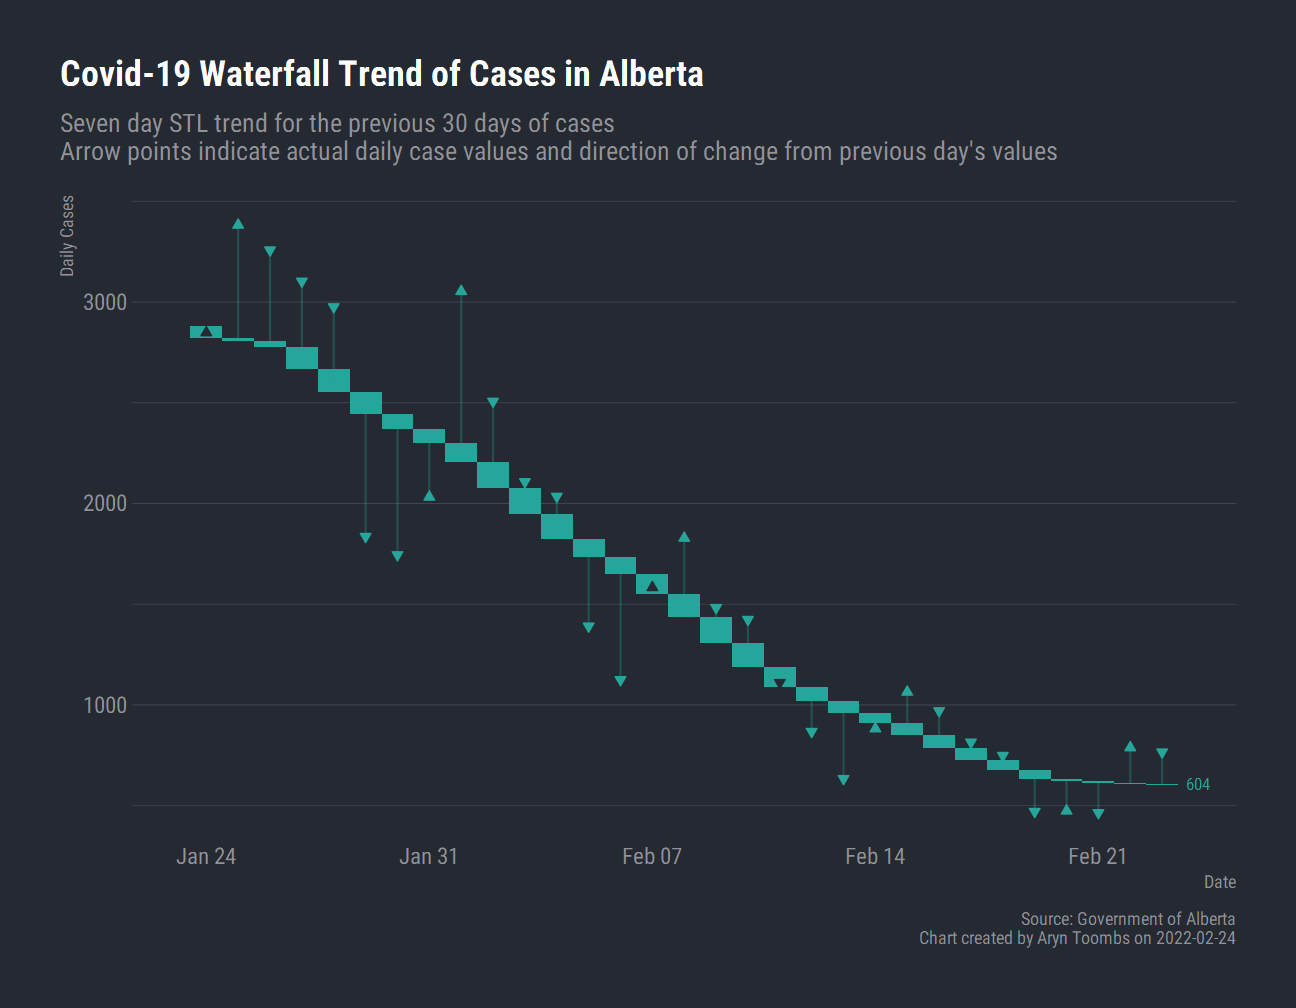
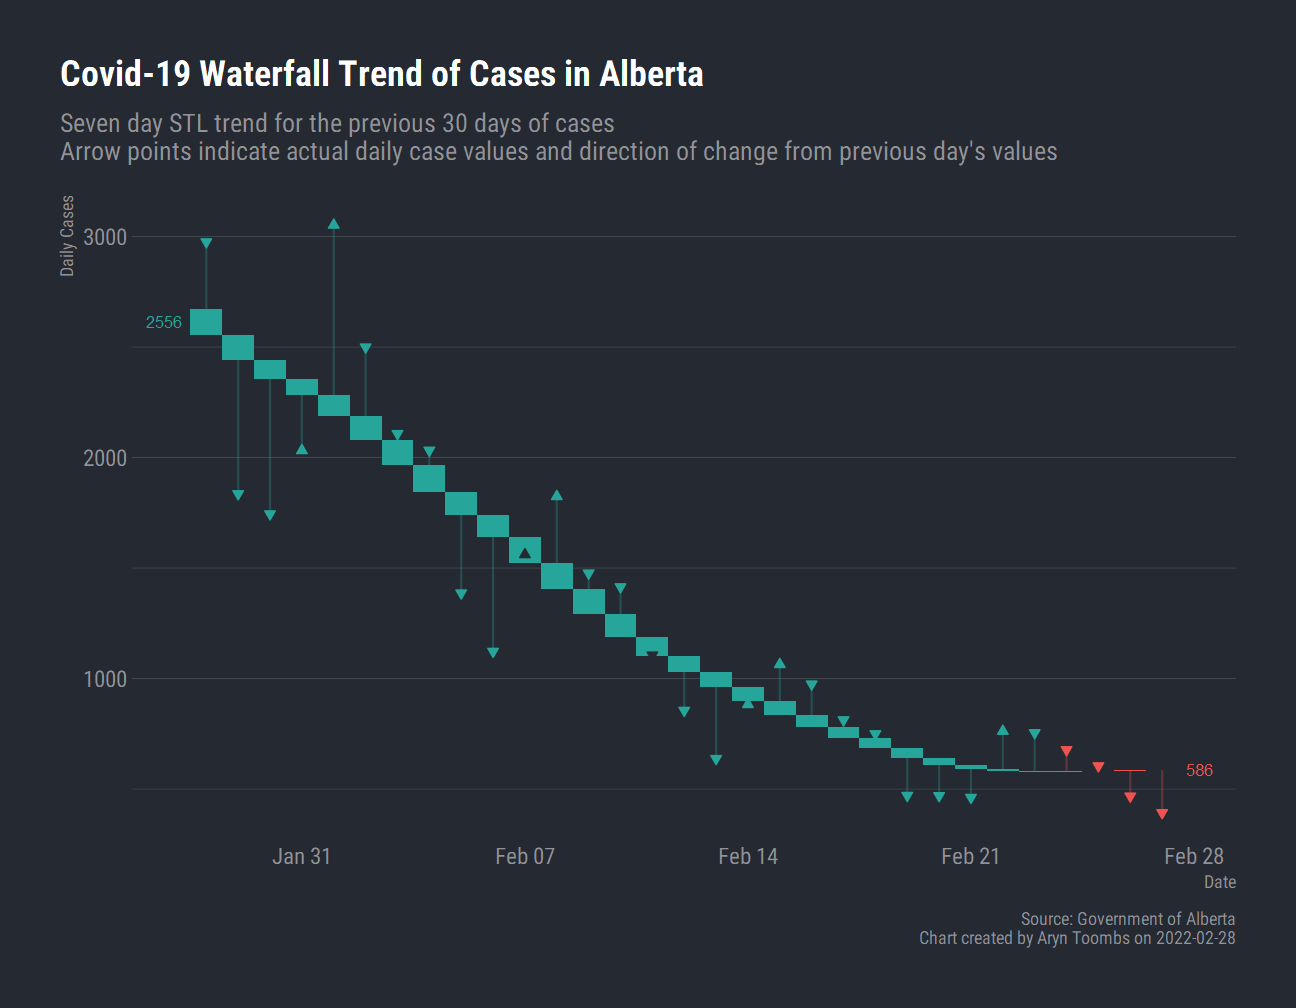
web

diff --git a/brief/index.html b/brief/index.html
@@ -22,7 +22,7 @@
         "datePublished": "2021-04-02T22:46:30Z",
         "dateModified" : "2021-04-02T22:46:30Z",
         "url" : "\/brief\/",
-        "wordCount" : "638",
+        "wordCount" : "743",
         "keywords" : [ "Blog" ]
     }
 </script>
@@ -37,7 +37,7 @@
 <meta itemprop="name" content="Daily Covid-19 Briefing">
 <meta itemprop="description" content="Daily Covid-19 Briefing for Alberta"><meta itemprop="datePublished" content="2021-04-02T00:00:00&#43;00:00" />
 <meta itemprop="dateModified" content="2021-04-02T00:00:00&#43;00:00" />
-<meta itemprop="wordCount" content="638">
+<meta itemprop="wordCount" content="743">
 <meta itemprop="keywords" content="" />
 <meta property="og:title" content="Daily Covid-19 Briefing" />
 <meta property="og:description" content="Daily Covid-19 Briefing for Alberta" />
@@ -167,41 +167,52 @@
     </div>
   </div>
   <div class="row">
-    <div class="col-12 pl-3 pr-3"><p><strong>Thursday, February 24, 2022</strong> - Prepared by ALPINE<sup>1</sup></p>
+    <div class="col-12 pl-3 pr-3"><p><strong>Monday, February 28, 2022</strong> - Prepared by ALPINE<sup>1</sup></p>
 <p style="font-style: italic;">As of July 29, 2021 the Province of Alberta has begun <a href="https://web.archive.org/web/20210729212501/https://www.alberta.ca/release.cfm?xID=7962654912AD7-EFD7-89F5-1AA4E31447E892D2">reducing the number of Covid-19 tests performed</a>. Caution should be applied when interpreting these daily case and trend values as they may not be reflective of the wider population.</p>
-<p>Today 766 new cases of Covid-19 were identified in the province. The adjusted net total of cases is 682 including changes to previous case numbers between October 17th and February 22nd.</p>
-<p>The current 7 day trend of cases is 604, a decrease of -0.7% from the day before. This time last week trend was 787. This is a decrease of -23%. The 7 day trend currently sits at 9.8% of the previous peak, which reached 6,187 on January 10th, 2022.</p>
-<p>There are 10,626 active cases within the province, down -563 from yesterday. This is a decrease of -5% in the number of active cases. This time last week there were 24,154 active cases. This is a decrease of -56%. The current number of active cases is -59,597 under the previous peak of 70,223 on January 17th, 2022.</p>
-<p>Selected changes in active case counts for municipalities:<br><ul><li><strong>Municipal District Of Pincher Creek No. 9</strong> - 755.1 case rate per 100k
-</li><li><strong>Westlock County</strong> - 450 case rate per 100k
-</li><li><strong>Mackenzie County</strong> - 346.9 case rate per 100k
-</li><li><strong>City Of Red Deer</strong> - 311.1 case rate per 100k
-</li><li><strong>I.d. No. 24 (Wood Buffalo)</strong> - 1022.1 case rate per 100k
+<p>Today 393 new cases of Covid-19 were identified in the province. The adjusted net total of cases is 1,435 including changes to previous case numbers between November 13th and February 26th.</p>
+<p>The current 7 day trend of cases is 586, an increase of 0.1% from the day before. This time last week trend was 609. This is a decrease of -3.7%. The 7 day trend currently sits at 9.5% of the previous peak, which reached 6,187 on January 10th, 2022.</p>
+<p>There are 9,188 active cases within the province, down -924 from yesterday. This is a decrease of -9.1% in the number of active cases. This time last week there were 19,050 active cases. This is a decrease of -52%. The current number of active cases is -61,035 under the previous peak of 70,223 on January 17th, 2022.</p>
+<p>Selected changes in active case counts for municipalities:<br><ul><li><strong>Municipal District Of Peace No. 135</strong> - 848.9 case rate per 100k
+</li><li><strong>Cardston County</strong> - 572.1 case rate per 100k
+</li><li><strong>County Of Grande Prairie No. 1</strong> - 547.7 case rate per 100k
+</li><li><strong>Town Of Canmore</strong> - 175.3 case rate per 100k
+</li><li><strong>Lamont County</strong> - 611.8 case rate per 100k
 </li></ul></p>
-<p>The top hotspot municipalities in the provice by active case rates per 100,000 people are currently:<br><ul><li><strong>Municipal District Of Fairview No. 136:</strong> 1667.3 case rate per 100k
+<p>The top hotspot municipalities in the provice by active case rates per 100,000 people are currently:<br><ul><li><strong>Municipal District Of Fairview No. 136:</strong> 1392.7 case rate per 100k
 </li><li><strong>I.d. No. 24 (Wood Buffalo):</strong> 1022.1 case rate per 100k
-</li><li><strong>Vulcan County:</strong> 1000.1 case rate per 100k
 </li><li><strong>Lac La Biche County:</strong> 947.6 case rate per 100k
-</li><li><strong>Municipal District Of Smoky River No. 130:</strong> 768.1 case rate per 100k
+</li><li><strong>Vulcan County:</strong> 869.6 case rate per 100k
+</li><li><strong>Municipal District Of Peace No. 135:</strong> 848.9 case rate per 100k
 </li></ul></p>
-<p>Currently there are a total of 1,357 patients in hospital, with 92 in intensive care and 1,265 in non-intensive care. Total net hospitalizations are down -39 from yesterday, with net 0 ICU patients and net -39 non-ICU patients. This time last week there were 116 patients in ICUs, representing a decrease of -21%. The total number of new hospital admissions was 42: <ul><li>2 new admissions for Under 1 year
-</li><li>1 new admissions for 1-4 years
-</li><li>-1 new admissions for 10-19 years
-</li><li>1 new admissions for 30-39 years
-</li><li>3 new admissions for 40-49 years
-</li><li>2 new admissions for 50-59 years
-</li><li>7 new admissions for 60-69 years
-</li><li>13 new admissions for 70-79 years
-</li><li>15 new admissions for 80+ years
-</li><li>-1 new admissions for Unknown
+<p>Currently there are a total of 1,224 patients in hospital, with 83 in intensive care and 1,141 in non-intensive care. Total net hospitalizations are down -17 from yesterday, with net 6 ICU patients and net -23 non-ICU patients. This time last week there were 97 patients in ICUs, representing a decrease of -14%. The total number of new hospital admissions was 159: <ul><li>4 new admissions for Under 1 year
+</li><li>8 new admissions for 1-4 years
+</li><li>2 new admissions for 5-9 years
+</li><li>3 new admissions for 10-19 years
+</li><li>13 new admissions for 20-29 years
+</li><li>9 new admissions for 30-39 years
+</li><li>8 new admissions for 40-49 years
+</li><li>15 new admissions for 50-59 years
+</li><li>28 new admissions for 60-69 years
+</li><li>28 new admissions for 70-79 years
+</li><li>41 new admissions for 80+ years
 </li></ul></p>
-<p>A total of 2 new deaths were reported in the province today (new deaths and updated date of death information counts may not match): <ul><li>A male, aged 30-39 years old from the Edmonton Zone
+<p>A total of 14 new deaths were reported in the province today (new deaths and updated date of death information counts may not match): <ul><li>A male, aged 40-49 years old from the Edmonton Zone
+</li><li>A female, aged 40-49 years old from the South Zone
+</li><li>A female, aged 50-59 years old from the Central Zone
+</li><li>A male, aged 50-59 years old from the North Zone
 </li><li>A male, aged 60-69 years old from the North Zone
-</li><li>A male, aged 60-69 years old from the Edmonton Zone
-</li><li>A female, aged 60-69 years old from the Central Zone
+</li><li>A female, aged 70-79 years old from the Edmonton Zone
+</li><li>A female, aged 70-79 years old from the Calgary Zone
+</li><li>A female, aged 70-79 years old from the Calgary Zone
+</li><li>A female, aged 70-79 years old from the Central Zone
+</li><li>A female, aged 80+ years old from the Edmonton Zone
+</li><li>A male, aged 80+ years old from the Edmonton Zone
 </li><li>A female, aged 80+ years old from the Calgary Zone
+</li><li>A female, aged 80+ years old from the Calgary Zone
+</li><li>A male, aged 80+ years old from the Calgary Zone
+</li><li>A female, aged 80+ years old from the South Zone
 </li></ul></p>
-<p>Yesterday 3,959 doses of vaccine were administered in the province. The total adjusted number of doses administered is 4,311 including changes to previously reported doses between January 6th and February 22nd. A total of 8,482,498 doses of vaccine have been administered thus far.<p>
+<p>Yesterday 1,916 doses of vaccine were administered in the province. The total adjusted number of doses administered is 11,867 including changes to previously reported doses between January 27th and February 26th. A total of 8,498,261 doses of vaccine have been administered thus far.<p>
 </div>
   </div>
   <div class="row">
